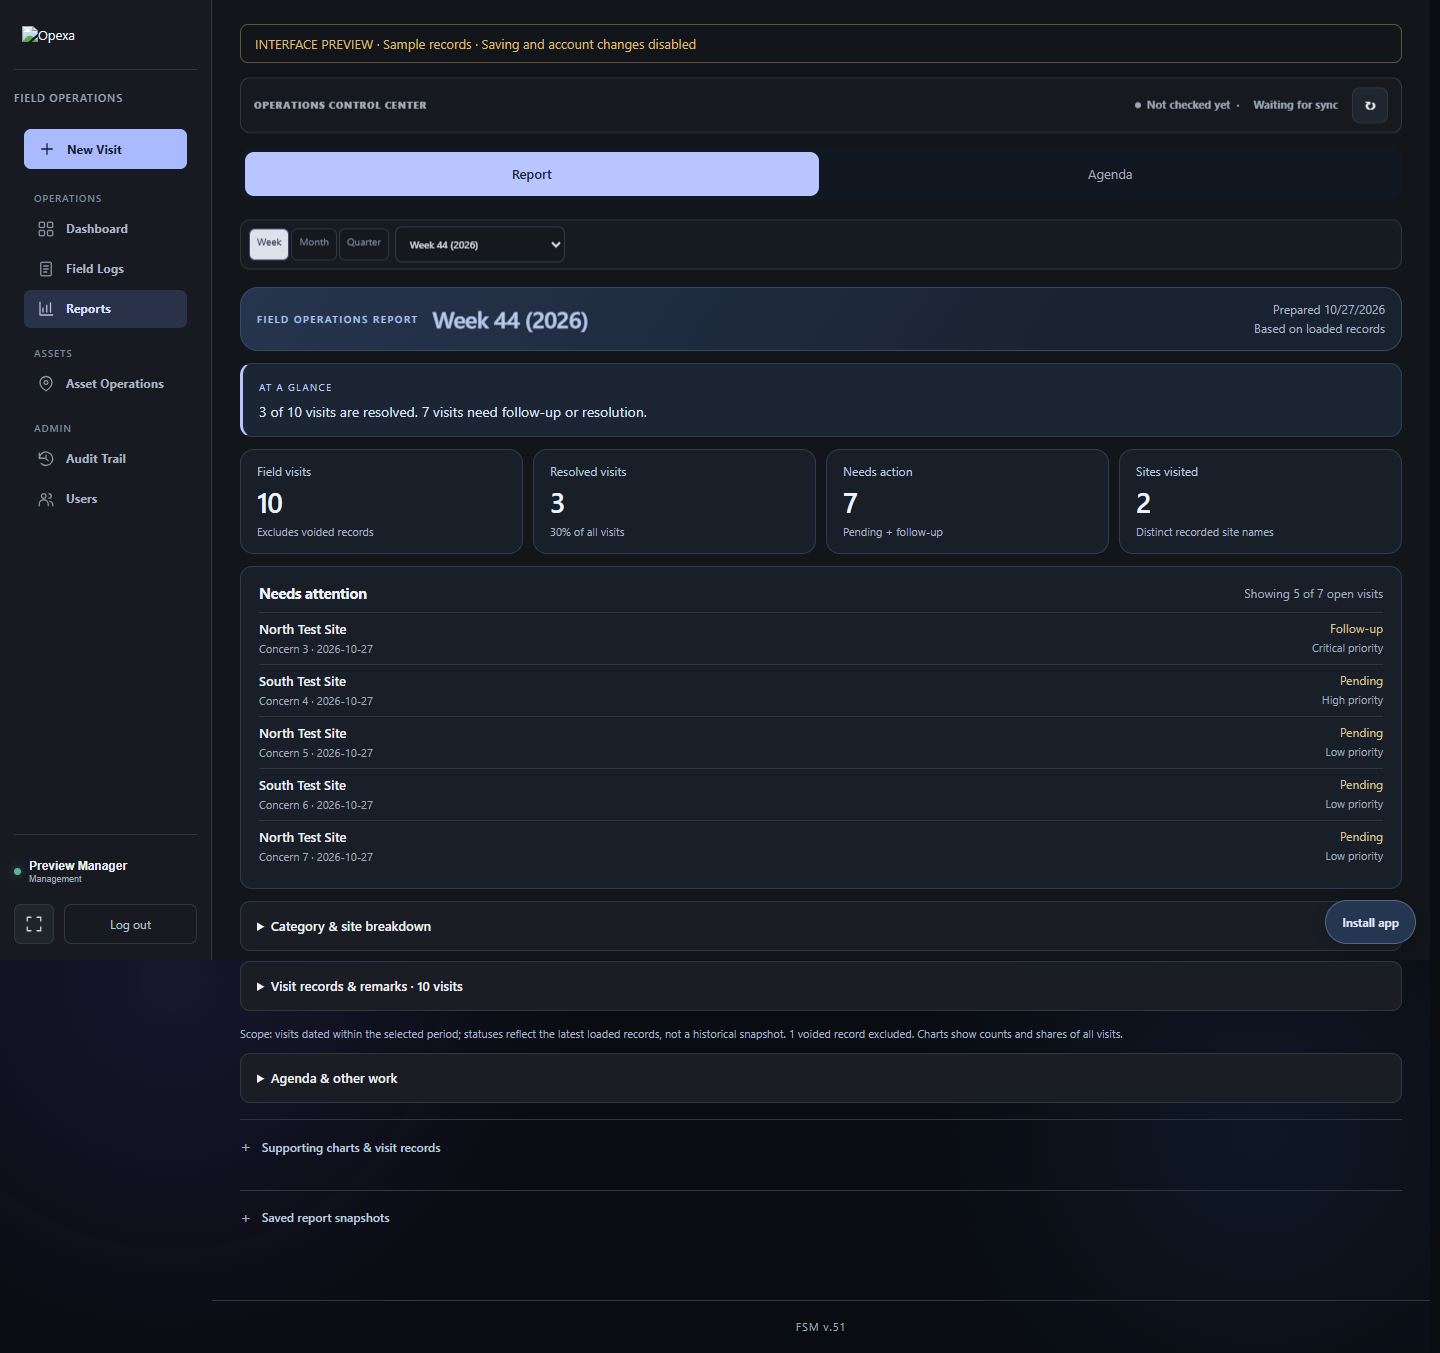
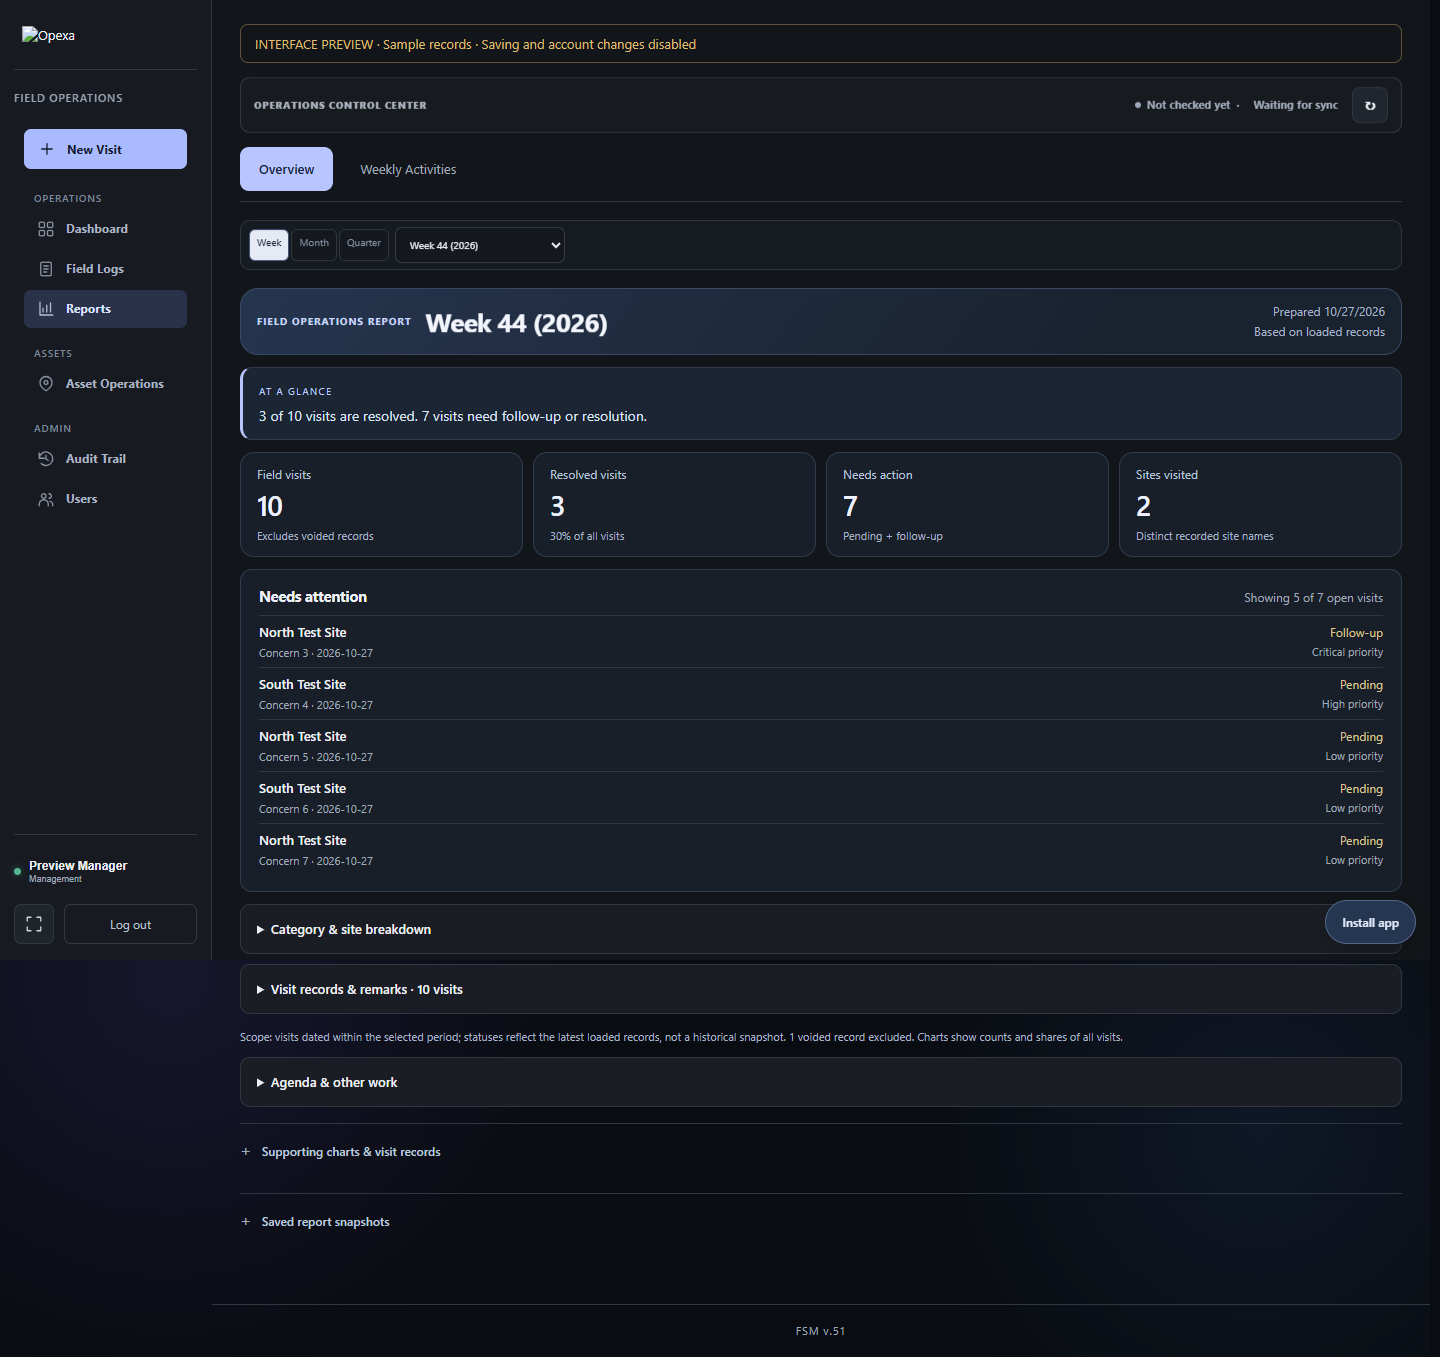
Simplify Weekly Activities alongside the Reports overview

diff --git a/index.html b/index.html
@@ -4863,18 +4863,18 @@ body:has(#spare-modal[style*="display:flex"]){
 
   <div class="panel" id="panel-report" data-report-view="report">
     <nav class="report-subnav" aria-label="Report sections">
-      <button type="button" class="active" data-report-view-button="report">Report</button>
-      <button type="button" data-report-view-button="tasks">Agenda</button>
+      <button type="button" class="active" data-report-view-button="report">Overview</button>
+      <button type="button" data-report-view-button="tasks">Weekly Activities</button>
     </nav>
     <section class="report-weekly-task-view">
-      <div class="section-head"><div><h2>Agenda</h2><p>Record completed work, meetings, coordination, and other weekly activities outside site visits. Synced with Google Sheets.</p></div><button type="button" class="btn-primary" id="agenda-add-more">＋ Add another activity</button></div>
+      <div class="section-head"><div><h2>Weekly Activities</h2><p>Completed work outside site visits: meetings, coordination, preparation and support.</p></div><button type="button" class="btn-primary" id="agenda-add-more" aria-controls="weekly-task-form" aria-expanded="false">＋ Add Activity</button></div>
       <div class="weekly-task-toolbar">
         <label>Reporting week<select id="weekly-task-week"></select></label>
         <span id="weekly-task-count" class="muted">0 tasks</span>
       </div>
       <form id="weekly-task-form" class="weekly-task-form">
-        <label>Task or activity completed<textarea id="weekly-task-text" rows="3" placeholder="What did you complete this week?" required></textarea></label>
-        <div class="weekly-task-actions"><button type="submit" class="btn-primary">Add agenda item</button><span id="weekly-task-status" role="status" aria-live="polite"></span></div>
+        <label>Completed activity<textarea id="weekly-task-text" rows="3" placeholder="Describe the work you completed…" required></textarea></label>
+        <div class="weekly-task-actions"><button type="submit" class="btn-primary">Add activity</button><button type="button" class="btn-secondary weekly-activity-cancel" id="weekly-activity-cancel">Cancel</button><span id="weekly-task-status" role="status" aria-live="polite"></span></div>
       </form>
       <div id="weekly-task-list" class="weekly-task-list"></div>
     </section>
@@ -11259,7 +11259,7 @@ window.addEventListener('DOMContentLoaded',()=>{
  const weekSelect=document.getElementById('weekly-task-week'),form=document.getElementById('weekly-task-form'),input=document.getElementById('weekly-task-text'),list=document.getElementById('weekly-task-list'),count=document.getElementById('weekly-task-count'),status=document.getElementById('weekly-task-status'),addMore=document.getElementById('agenda-add-more');
  if(!weekSelect||!form||!input||!list)return;
  document.querySelector('.agenda-editor')?.remove();
- let agendaRows=[],editingId='',agendaLoadedAt=0,agendaLoadInFlight=null,agendaCacheRestored=false;
+ let agendaRows=[],editingId='',composing=false,agendaLoadedAt=0,agendaLoadInFlight=null,agendaCacheRestored=false;
  const AGENDA_CACHE_PREFIX='fo-agenda-cache-v1:';
  function agendaCacheKey(){
   const userKey=String(currentUser?.username||currentUser?.name||currentUser?.fse||'shared').trim().toLowerCase();
@@ -11315,14 +11315,15 @@ window.addEventListener('DOMContentLoaded',()=>{
   if(renderNow){renderReport(week);renderReportTasks();}
  }
  function renderList(){
-  const rows=read(weekSelect.value);count.textContent=rows.length+' agenda item'+(rows.length===1?'':'s');list.replaceChildren();
-  form.hidden=rows.length>0&&!editingId;
-  if(addMore)addMore.hidden=!rows.length||!form.hidden;
-  const submit=form.querySelector('button[type="submit"]');submit.textContent=editingId?'Save changes':'Add agenda item';
-  if(!rows.length){form.hidden=false;const empty=document.createElement('div');empty.className='weekly-task-empty';empty.textContent='No agenda items recorded yet. Add the first completed activity above.';list.append(empty);return;}
-  rows.forEach(row=>{const card=document.createElement('article');card.className='weekly-task-row';const check=document.createElement('span');check.className='weekly-task-check';check.textContent='✓';const body=document.createElement('div');const text=document.createElement('p');text.textContent=row.text;const meta=document.createElement('small');meta.textContent=(row.owner||'User')+' · '+new Date(row.createdAt).toLocaleString();body.append(text,meta);const actions=document.createElement('div');actions.className='weekly-task-row-actions';const edit=document.createElement('button');edit.type='button';edit.className='btn-secondary';edit.textContent='Edit';edit.onclick=()=>{editingId=row.id;input.value=row.text;form.hidden=false;form.querySelector('button[type="submit"]').textContent='Save changes';status.textContent='Editing this agenda item.';form.scrollIntoView({behavior:'smooth',block:'center'});input.focus();};const remove=document.createElement('button');remove.type='button';remove.className='weekly-task-delete';remove.textContent='Remove';remove.onclick=async()=>{if(!confirm('Remove this agenda item?'))return;const before=agendaRows.slice();agendaRows=agendaRows.filter(item=>String(item.id)!==String(row.id));if(editingId===row.id){editingId='';input.value='';}renderList();renderReportTasks();status.textContent='Removing from Google Sheets…';try{await apiPost('deleteAgendaItem',{id:row.id});agendaLoadedAt=Date.now();saveAgendaCache();status.textContent='Agenda item removed.';showToast('Agenda item removed','Google Sheets has been updated.');}catch(error){agendaRows=before;renderList();renderReportTasks();status.textContent='Remove failed; the item was restored.';showToast('Could not remove item',error.message||'Google Sheets did not confirm the change.','bad');}};actions.append(edit,remove);card.append(check,body,actions);list.append(card);});
+  const rows=read(weekSelect.value).sort((a,b)=>String(b.createdAt||'').localeCompare(String(a.createdAt||'')));count.textContent=rows.length+' completed '+(rows.length===1?'activity':'activities');list.replaceChildren();
+  form.hidden=!composing&&!editingId;
+  if(addMore)addMore.hidden=!form.hidden;
+  const submit=form.querySelector('button[type="submit"]');submit.textContent=editingId?'Save changes':'Add activity';
+  if(!rows.length){const empty=document.createElement('div');empty.className='weekly-task-empty';empty.textContent='No activities recorded for this week. Select Add Activity to record completed work.';list.append(empty);return;}
+  rows.forEach(row=>{const card=document.createElement('article');card.className='weekly-task-row';const check=document.createElement('span');check.className='weekly-task-check';check.textContent='✓';const body=document.createElement('div');const text=document.createElement('p');text.textContent=row.text;const meta=document.createElement('small');meta.textContent=(row.owner||'User')+' · '+new Date(row.createdAt).toLocaleString();body.append(text,meta);const actions=document.createElement('div');actions.className='weekly-task-row-actions';const edit=document.createElement('button');edit.type='button';edit.className='btn-secondary';edit.textContent='Edit';edit.onclick=()=>{composing=true;editingId=row.id;input.value=row.text;form.hidden=false;form.querySelector('button[type="submit"]').textContent='Save changes';status.textContent='Editing this agenda item.';form.scrollIntoView({behavior:'smooth',block:'center'});input.focus();};const remove=document.createElement('button');remove.type='button';remove.className='weekly-task-delete';remove.textContent='Remove';remove.onclick=async()=>{if(!confirm('Remove this agenda item?'))return;const before=agendaRows.slice();agendaRows=agendaRows.filter(item=>String(item.id)!==String(row.id));if(editingId===row.id){editingId='';input.value='';}renderList();renderReportTasks();status.textContent='Removing from Google Sheets…';try{await apiPost('deleteAgendaItem',{id:row.id});agendaLoadedAt=Date.now();saveAgendaCache();status.textContent='Agenda item removed.';showToast('Agenda item removed','Google Sheets has been updated.');}catch(error){agendaRows=before;renderList();renderReportTasks();status.textContent='Remove failed; the item was restored.';showToast('Could not remove item',error.message||'Google Sheets did not confirm the change.','bad');}};actions.append(edit,remove);card.append(check,body,actions);list.append(card);});
  }
- addMore?.addEventListener('click',()=>{editingId='';input.value='';form.hidden=false;addMore.hidden=true;form.querySelector('button[type="submit"]').textContent='Add agenda item';status.textContent='Add another activity for '+(periodKeyFns().label(weekSelect.value)||weekSelect.value)+'.';form.scrollIntoView({behavior:'smooth',block:'center'});input.focus();});
+ addMore?.addEventListener('click',()=>{composing=true;editingId='';input.value='';form.hidden=false;addMore.hidden=true;form.querySelector('button[type="submit"]').textContent='Add activity';status.textContent='Add another activity for '+(periodKeyFns().label(weekSelect.value)||weekSelect.value)+'.';form.scrollIntoView({behavior:'smooth',block:'center'});input.focus();});
+ document.getElementById('weekly-activity-cancel')?.addEventListener('click',()=>{if(form.querySelector('button[type=submit]').disabled)return;composing=false;editingId='';input.value='';status.textContent='';renderList();addMore?.focus();});
  function renderReportTasks(){
   const report=document.getElementById('presentation-report');if(!report)return;report.querySelector('.brief-agenda,.report-agenda-section')?.remove();
   if(periodType!=='week')return;const selected=document.getElementById('period-picker')?.value;if(!selected)return;const rows=read(selected);const section=document.createElement('section');section.className='report-agenda-section';
@@ -11332,8 +11333,8 @@ window.addEventListener('DOMContentLoaded',()=>{
  buildWeeks();renderList();
  const reportPanel=document.getElementById('panel-report');
  document.querySelectorAll('[data-report-view-button]').forEach(button=>button.addEventListener('click',()=>{const view=button.dataset.reportViewButton;reportPanel.dataset.reportView=view;document.querySelectorAll('[data-report-view-button]').forEach(item=>item.classList.toggle('active',item===button));if(view==='tasks'){restoreAgendaCache();syncReportWeek(weekSelect.value,false);loadAgenda(false,true);}else syncReportWeek(weekSelect.value,true);}));
- weekSelect.addEventListener('change',()=>{editingId='';input.value='';status.textContent='';renderList();syncReportWeek(weekSelect.value,false);});
- form.addEventListener('submit',async event=>{event.preventDefault();const text=input.value.trim();if(!text)return;const submit=form.querySelector('button[type="submit"]'),week=weekSelect.value,originalId=editingId,wasEdit=!!originalId,before=agendaRows.slice(),existing=agendaRows.find(row=>String(row.id)===String(originalId)),temporaryId=originalId||('PENDING-'+crypto.randomUUID());const optimistic={...(existing||{}),id:temporaryId,week,text,owner:existing?.owner||currentUser?.name||currentUser?.fse||currentUser?.username||'User',createdAt:existing?.createdAt||new Date().toISOString(),updatedAt:new Date().toISOString()};agendaRows=wasEdit?agendaRows.map(row=>String(row.id)===String(originalId)?optimistic:row):[optimistic,...agendaRows];editingId='';input.value='';renderList();renderReportTasks();submit.disabled=true;status.textContent='Saving to Google Sheets…';try{const result=await apiPost('saveAgendaItem',{record:{id:originalId||'',week,text}});const saved=result?.record||optimistic;agendaRows=agendaRows.map(row=>String(row.id)===String(temporaryId)?saved:row);agendaLoadedAt=Date.now();saveAgendaCache();renderList();renderReportTasks();status.textContent=wasEdit?'Agenda changes saved.':'Agenda item saved.';showToast(wasEdit?'Agenda updated':'Agenda saved',periodKeyFns().label(week));}catch(error){agendaRows=before;editingId=originalId;input.value=text;renderList();form.hidden=false;status.textContent=error.message||'Google Sheets did not confirm the save.';showToast('Agenda not saved',status.textContent,'bad');}finally{submit.disabled=false;}});
+ weekSelect.addEventListener('change',()=>{composing=false;editingId='';input.value='';status.textContent='';renderList();syncReportWeek(weekSelect.value,false);});
+ form.addEventListener('submit',async event=>{event.preventDefault();const text=input.value.trim();if(!text)return;const submit=form.querySelector('button[type="submit"]'),week=weekSelect.value,originalId=editingId,wasEdit=!!originalId,before=agendaRows.slice(),existing=agendaRows.find(row=>String(row.id)===String(originalId)),temporaryId=originalId||('PENDING-'+crypto.randomUUID());const optimistic={...(existing||{}),id:temporaryId,week,text,owner:existing?.owner||currentUser?.name||currentUser?.fse||currentUser?.username||'User',createdAt:existing?.createdAt||new Date().toISOString(),updatedAt:new Date().toISOString()};agendaRows=wasEdit?agendaRows.map(row=>String(row.id)===String(originalId)?optimistic:row):[optimistic,...agendaRows];editingId='';composing=false;input.value='';renderList();renderReportTasks();submit.disabled=true;addMore.disabled=true;document.getElementById('weekly-activity-cancel').disabled=true;status.textContent='Saving to Google Sheets…';try{const result=await apiPost('saveAgendaItem',{record:{id:originalId||'',week,text}});const saved=result?.record||optimistic;agendaRows=agendaRows.map(row=>String(row.id)===String(temporaryId)?saved:row);agendaLoadedAt=Date.now();saveAgendaCache();renderList();renderReportTasks();status.textContent=wasEdit?'Agenda changes saved.':'Agenda item saved.';showToast(wasEdit?'Agenda updated':'Agenda saved',periodKeyFns().label(week));}catch(error){agendaRows=before;composing=true;editingId=originalId;input.value=text;renderList();form.hidden=false;status.textContent=error.message||'Google Sheets did not confirm the save.';showToast('Agenda not saved',status.textContent,'bad');}finally{submit.disabled=false;addMore.disabled=false;document.getElementById('weekly-activity-cancel').disabled=false;}});
  const previousRender=window.renderReport;window.renderReport=function(...args){const result=previousRender.apply(this,args);renderReportTasks();return result;};
  window.renderWeeklyTasks=()=>{restoreAgendaCache();return loadAgenda(false,true);};
  const previousShowApp=showApp;showApp=function(user){const result=previousShowApp(user);restoreAgendaCache();return result;};
@@ -12161,3 +12162,6 @@ body #panel-report .brief-header .brief-eyebrow{color:#b5c5e5!important;font-wei
 
 <link rel="stylesheet" href="report-overview.css">
 <script src="report-overview.js"></script>
+
+<link rel="stylesheet" href="weekly-activities.css">
+<script src="weekly-activities.js"></script>

diff --git a/weekly-activities.css b/weekly-activities.css
@@ -1,0 +1,18 @@
+
+@media screen {
+ body #panel-report .report-subnav{background:transparent!important;padding:0 0 10px!important;border-bottom:1px solid var(--line)!important;border-radius:0!important;gap:8px!important}
+ body #panel-report .report-subnav button{flex:0 0 auto!important;padding:9px 18px!important;min-height:44px!important;font-size:13px!important}
+ body #panel-report .report-weekly-task-view>.section-head{gap:16px;margin:18px 0;align-items:center}
+ body #panel-report .report-weekly-task-view h2{font-size:24px!important;font-weight:700!important;margin-bottom:6px}
+ body #panel-report .report-weekly-task-view>.section-head p{font-size:13px;line-height:1.6;max-width:540px;color:var(--ink-soft)}
+ body #panel-report .weekly-task-row{grid-template-columns:24px minmax(0,1fr) auto;gap:12px;padding:16px}
+ body #panel-report .weekly-task-row p{font-size:14px;line-height:1.6;margin:0 0 8px}
+ body #panel-report .weekly-task-row small{font-size:11px;line-height:1.5;color:var(--ink-soft)}
+ body #panel-report .weekly-task-row-actions button{min-height:40px;padding:7px 12px}
+ body #panel-report #weekly-task-form[hidden]{display:none!important}
+ body #panel-report .weekly-task-toolbar{padding:12px 16px;align-items:center}
+ body #panel-report .weekly-task-toolbar label{font-size:12px}
+ body #panel-report #weekly-task-count{font-size:12px}
+ .weekly-activity-cancel{margin-left:8px;min-height:44px}
+ @media(max-width:600px){body #panel-report .report-weekly-task-view>.section-head{flex-wrap:wrap}body #panel-report .weekly-task-row{grid-template-columns:20px minmax(0,1fr)}body #panel-report .weekly-task-row-actions{grid-column:2;display:flex;gap:8px}body #panel-report .weekly-task-toolbar label{min-width:0;flex:1}body #panel-report .weekly-task-row-actions button{min-height:44px}}
+}

diff --git a/sw.js b/sw.js
@@ -1,8 +1,8 @@
 'use strict';
 const CACHE_PREFIX='opexa-io-shell-';
-const CACHE=CACHE_PREFIX+'20261027-report-overview-v2';
+const CACHE=CACHE_PREFIX+'20261027-weekly-activities-v1';
 const ROOT=new URL('./',self.location.href);
-const SHELL=['./','./index.html','./service-form.js','./log-filters.js','./visit-feedback.js','./report-overview.css','./report-overview.js','./service-form-reference.png','./manifest.webmanifest','./install.js','./install.css','./icons/icon-192.png','./icons/icon-512.png','./icons/icon-maskable-512.png','./icons/apple-touch-icon.png'];
+const SHELL=['./','./index.html','./service-form.js','./log-filters.js','./visit-feedback.js','./report-overview.css','./report-overview.js','./weekly-activities.css','./weekly-activities.js','./service-form-reference.png','./manifest.webmanifest','./install.js','./install.css','./icons/icon-192.png','./icons/icon-512.png','./icons/icon-maskable-512.png','./icons/apple-touch-icon.png'];
 self.addEventListener('install',event=>{event.waitUntil(caches.open(CACHE).then(cache=>cache.addAll(SHELL.map(file=>new Request(new URL(file,ROOT),{cache:'reload'})))));});
 self.addEventListener('activate',event=>{event.waitUntil((async()=>{for(const name of await caches.keys())if(name.startsWith(CACHE_PREFIX)&&name!==CACHE)await caches.delete(name);await self.clients.claim();})());});
 self.addEventListener('message',event=>{if(event.data?.type==='SKIP_WAITING')self.skipWaiting();});

diff --git a/weekly-activities.js b/weekly-activities.js
@@ -1,0 +1,10 @@
+/* Disclosure feedback only; the existing agenda handlers own edits and saves. */
+(() => {
+ const form=document.getElementById('weekly-task-form');
+ const add=document.getElementById('agenda-add-more');
+ const status=document.getElementById('weekly-task-status');
+ if(!form||!add)return;
+ if(status)form.after(status);
+ const sync=()=>{add.hidden=!form.hidden;add.setAttribute('aria-expanded',String(!form.hidden));};
+ new MutationObserver(sync).observe(form,{attributes:true,attributeFilter:['hidden']});sync();
+})();

diff --git a/docs/REPORT-OVERVIEW.md b/docs/REPORT-OVERVIEW.md
@@ -4,10 +4,14 @@ Keeps the deployed palette, period selection, role scope and source records. The
 
 Category/site breakdowns, complete visit remarks and weekly agenda remain available in expandable sections. Open concerns use the existing visit-details drawer. Print expands the complete report and restores disclosure state afterward. Presentation mode expands the sections while retaining the original overview/remarks paging. Frozen snapshots retain attention text and full expanded records without live action buttons.
 
-No changes to authentication, Apps Script, storage, save handlers or export calculations. This Reports change is a preview; the separate desktop Field Logs shortcut removal is already deployed.
+The tabs are named Overview and Weekly Activities. Activities show a week selector and completed-activity count, with newest records first. The form opens through Add Activity or Edit and supports Cancel. Empty weeks start with the form collapsed. Existing agenda API actions and storage keys stay unchanged; failed creates/edits retain entered text and restore the prior list, and failed deletes restore the removed record. Save status stays visible when the form collapses; Add and Cancel are disabled while a save is pending.
+
+No changes to authentication, Apps Script or export calculations. The separate desktop Field Logs shortcut removal is already deployed.
 
 ## Validation
 
 The four existing backend/service-form/report-scope/install tests pass. `report-overview.test.cjs` runs offline in Edge at 390, 820 and 1440px with synthetic records. It checks selected-period totals, void exclusion, priority ordering, the five-row limit, full expandable records, print visibility/state restoration, presentation pagination, visit-details navigation, empty state and horizontal overflow. No runtime errors. Backend production writes are blocked.
+
+`weekly-activities.test.cjs` also runs at all three widths, exercising the actual agenda handlers through Add/Cancel, create/edit/delete success, failure rollback and retained text, while checking tab labels, counts, empty state and horizontal overflow.
 
 Screens: [desktop](report-screens/overview-1440.png), [tablet](report-screens/overview-820.png), [phone](report-screens/overview-390.png).
